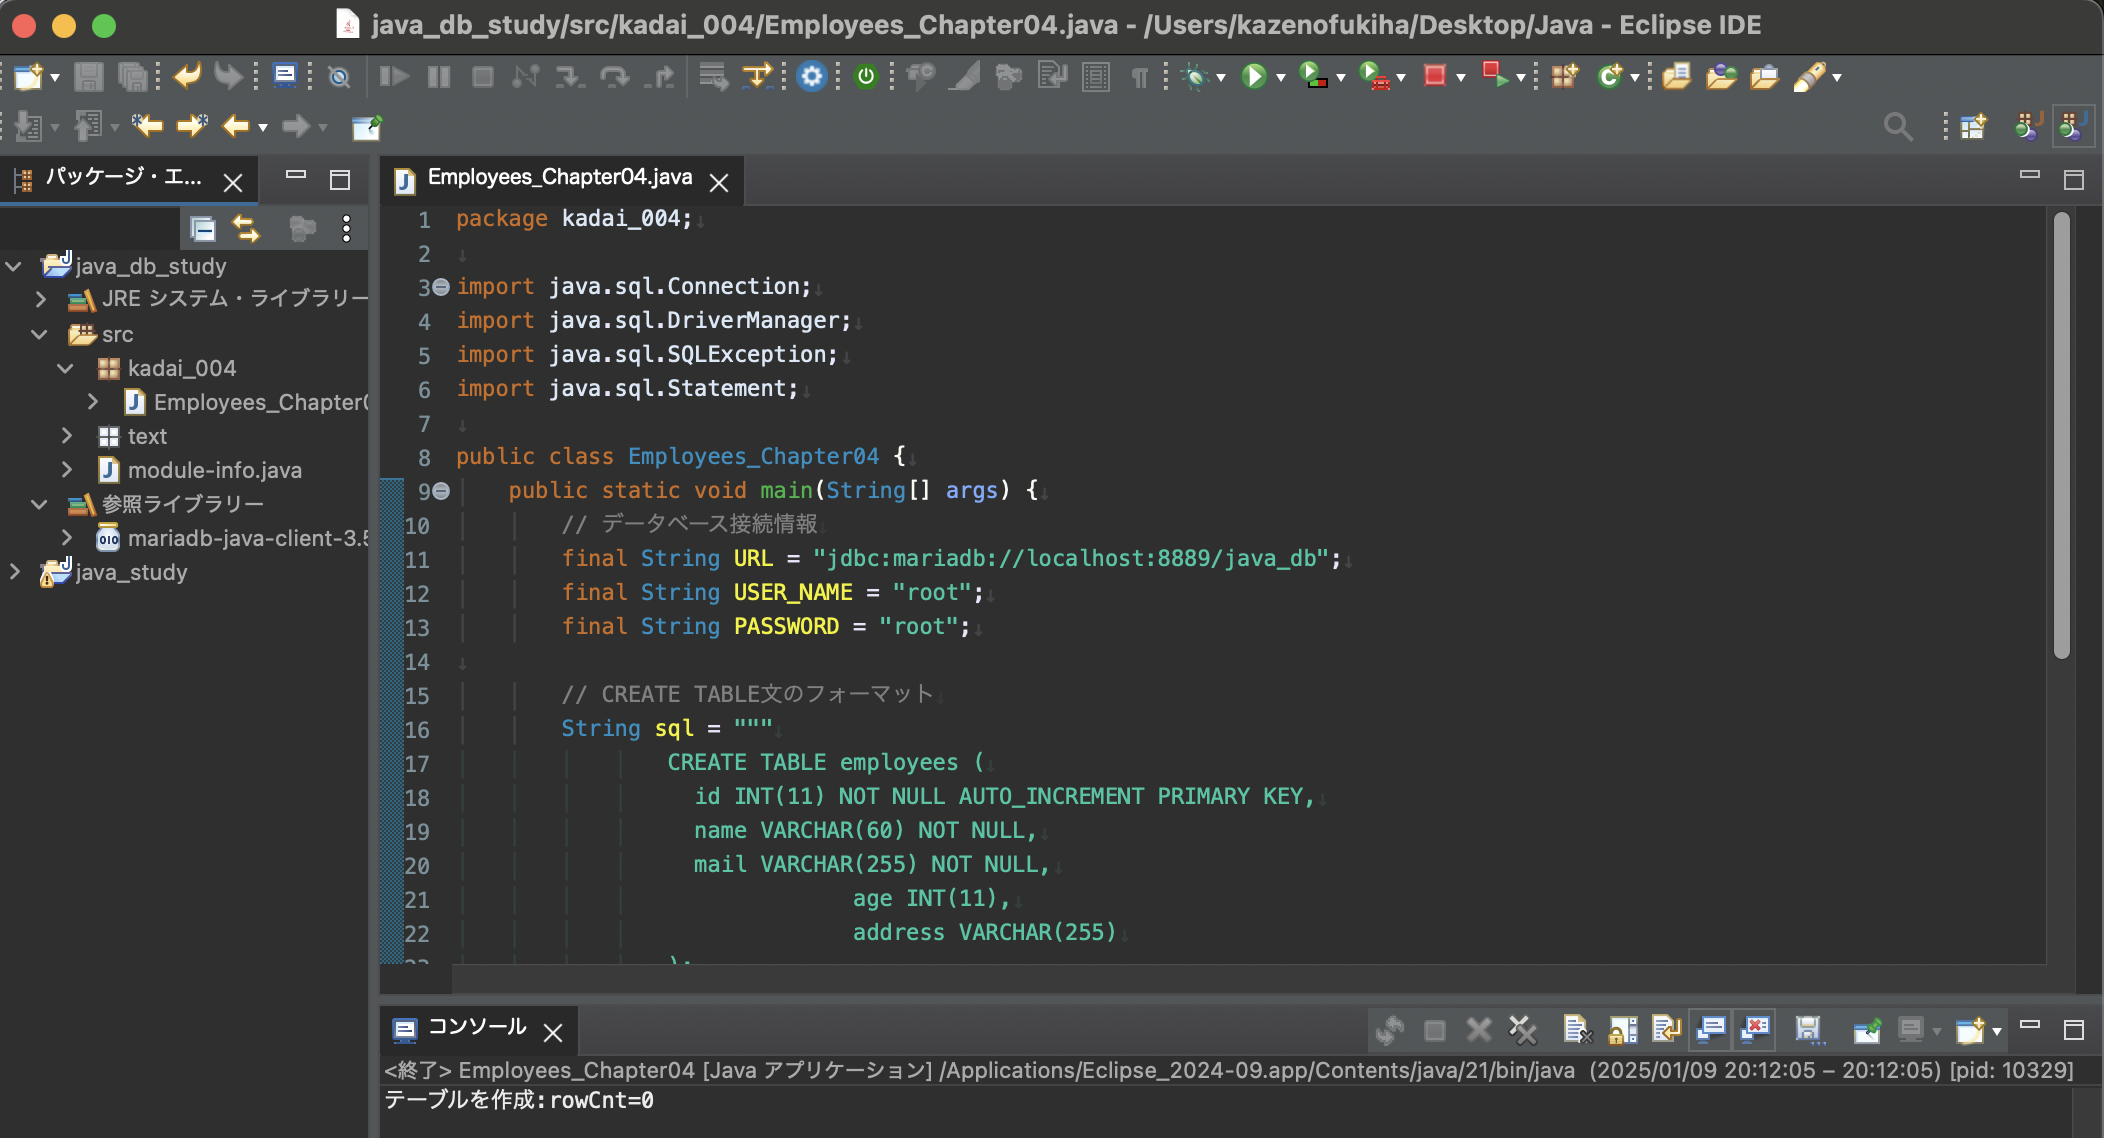
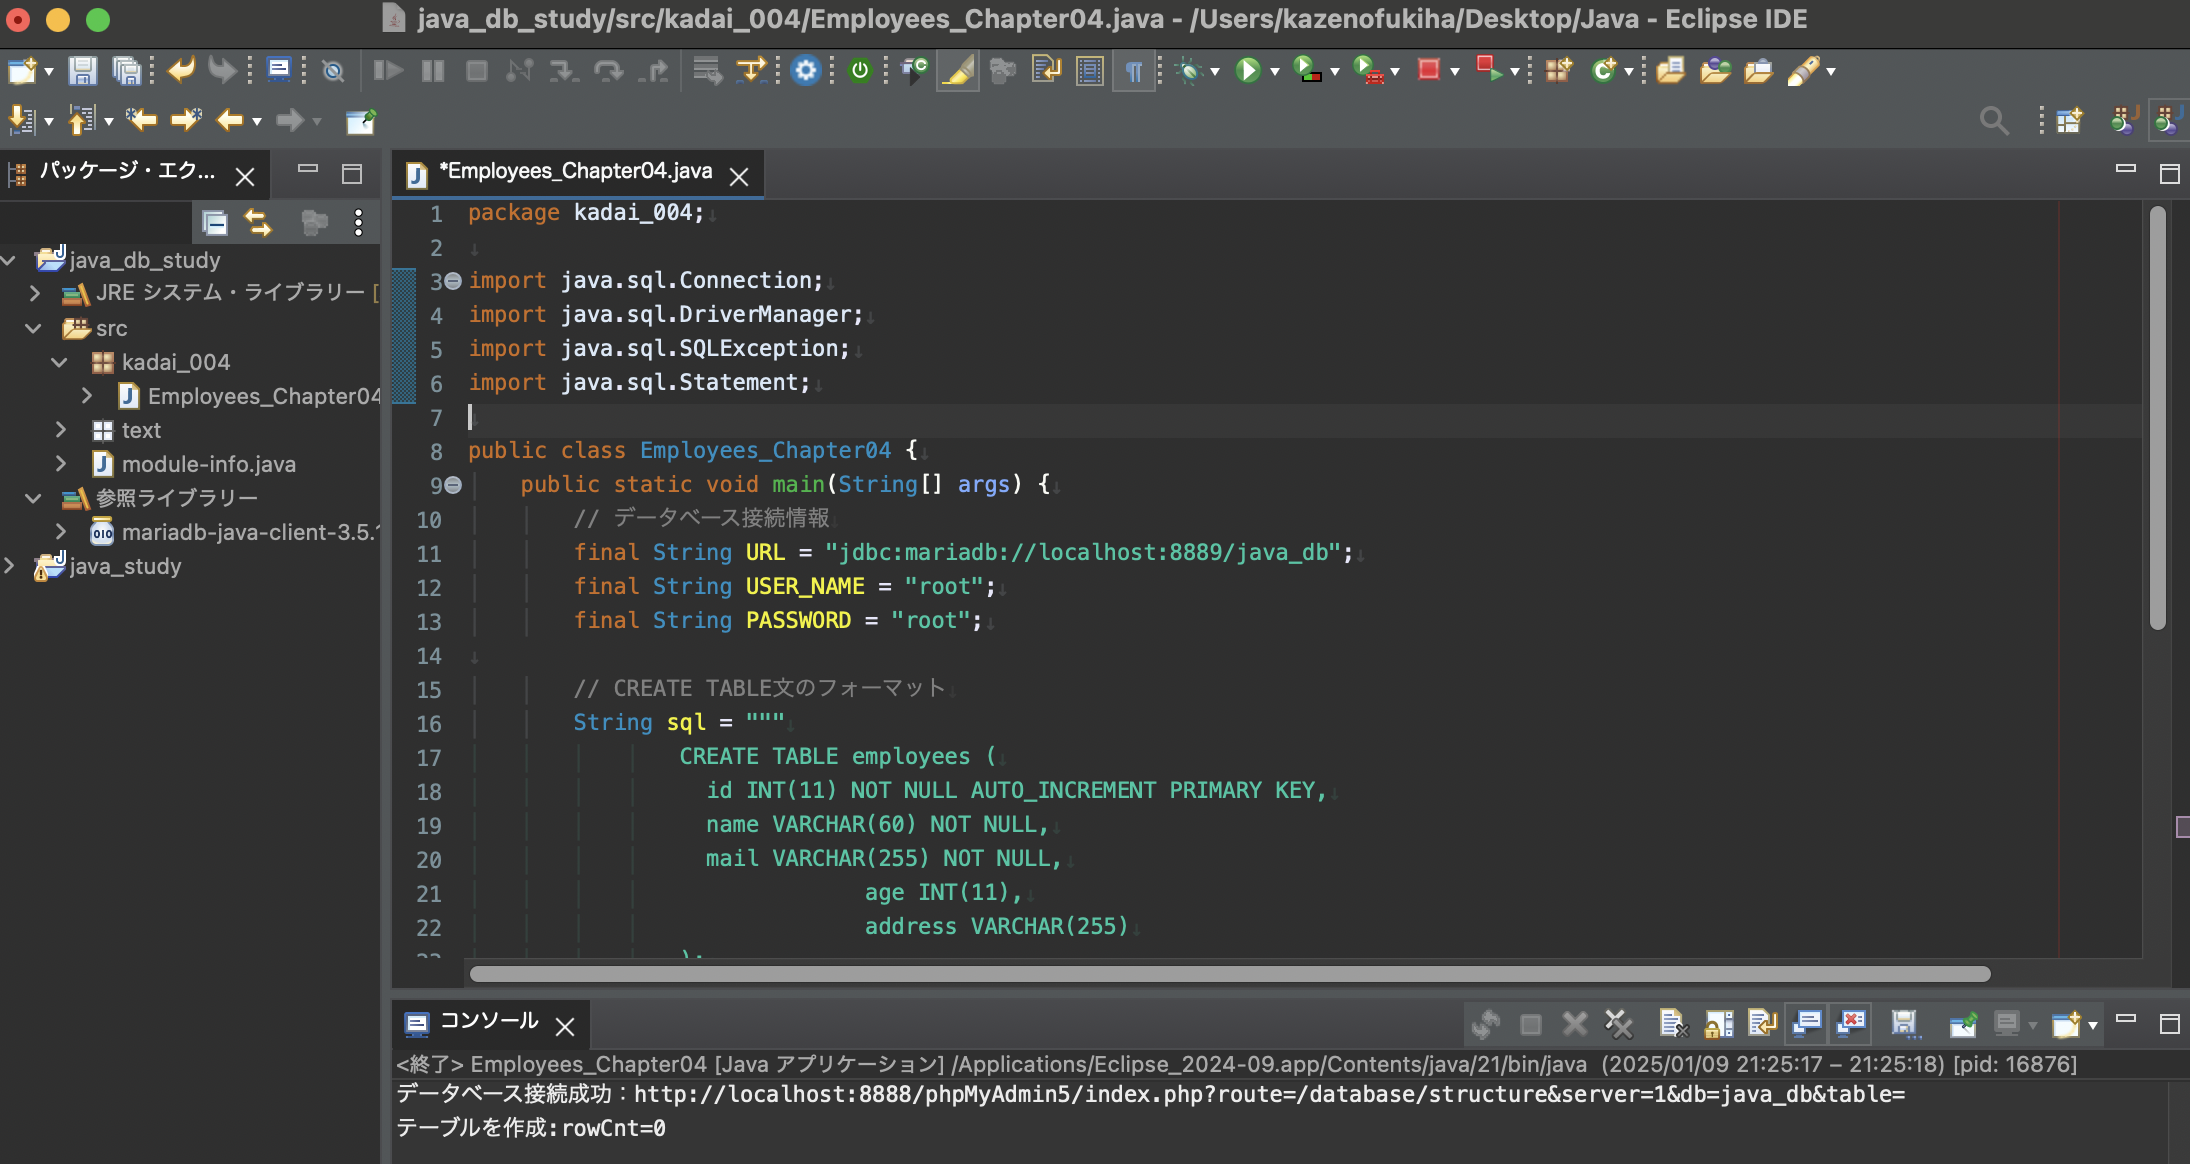
２「社員テーブルを作成しよう」をコミットする

Changed region(s): [[0.0, 0.0, 1.0, 0.9842], [0.9886, 0.6766, 1.0, 0.7381]]

diff --git a/kadai_004/Employees_Chapter04.java b/kadai_004/Employees_Chapter04.java
@@ -27,8 +27,9 @@ public class Employees_Chapter04 {
 		try (Connection con = DriverManager.getConnection(URL, USER_NAME, PASSWORD);
 				Statement statement = con.createStatement()) {
 
-			//　SQL文を実行（DBMSに送信）
+			// SQL文を実行（DBMSに送信）
 			int rowCnt = statement.executeUpdate(sql);
+			System.out.println("データベース接続成功：http://localhost:8888/phpMyAdmin5/index.php?route=/database/structure&server=1&db=java_db&table=");
 			System.out.println("テーブルを作成:rowCnt=" + rowCnt);
 		} catch (SQLException e) {
 			System.out.println("データベース接続失敗：" + e.getMessage());
